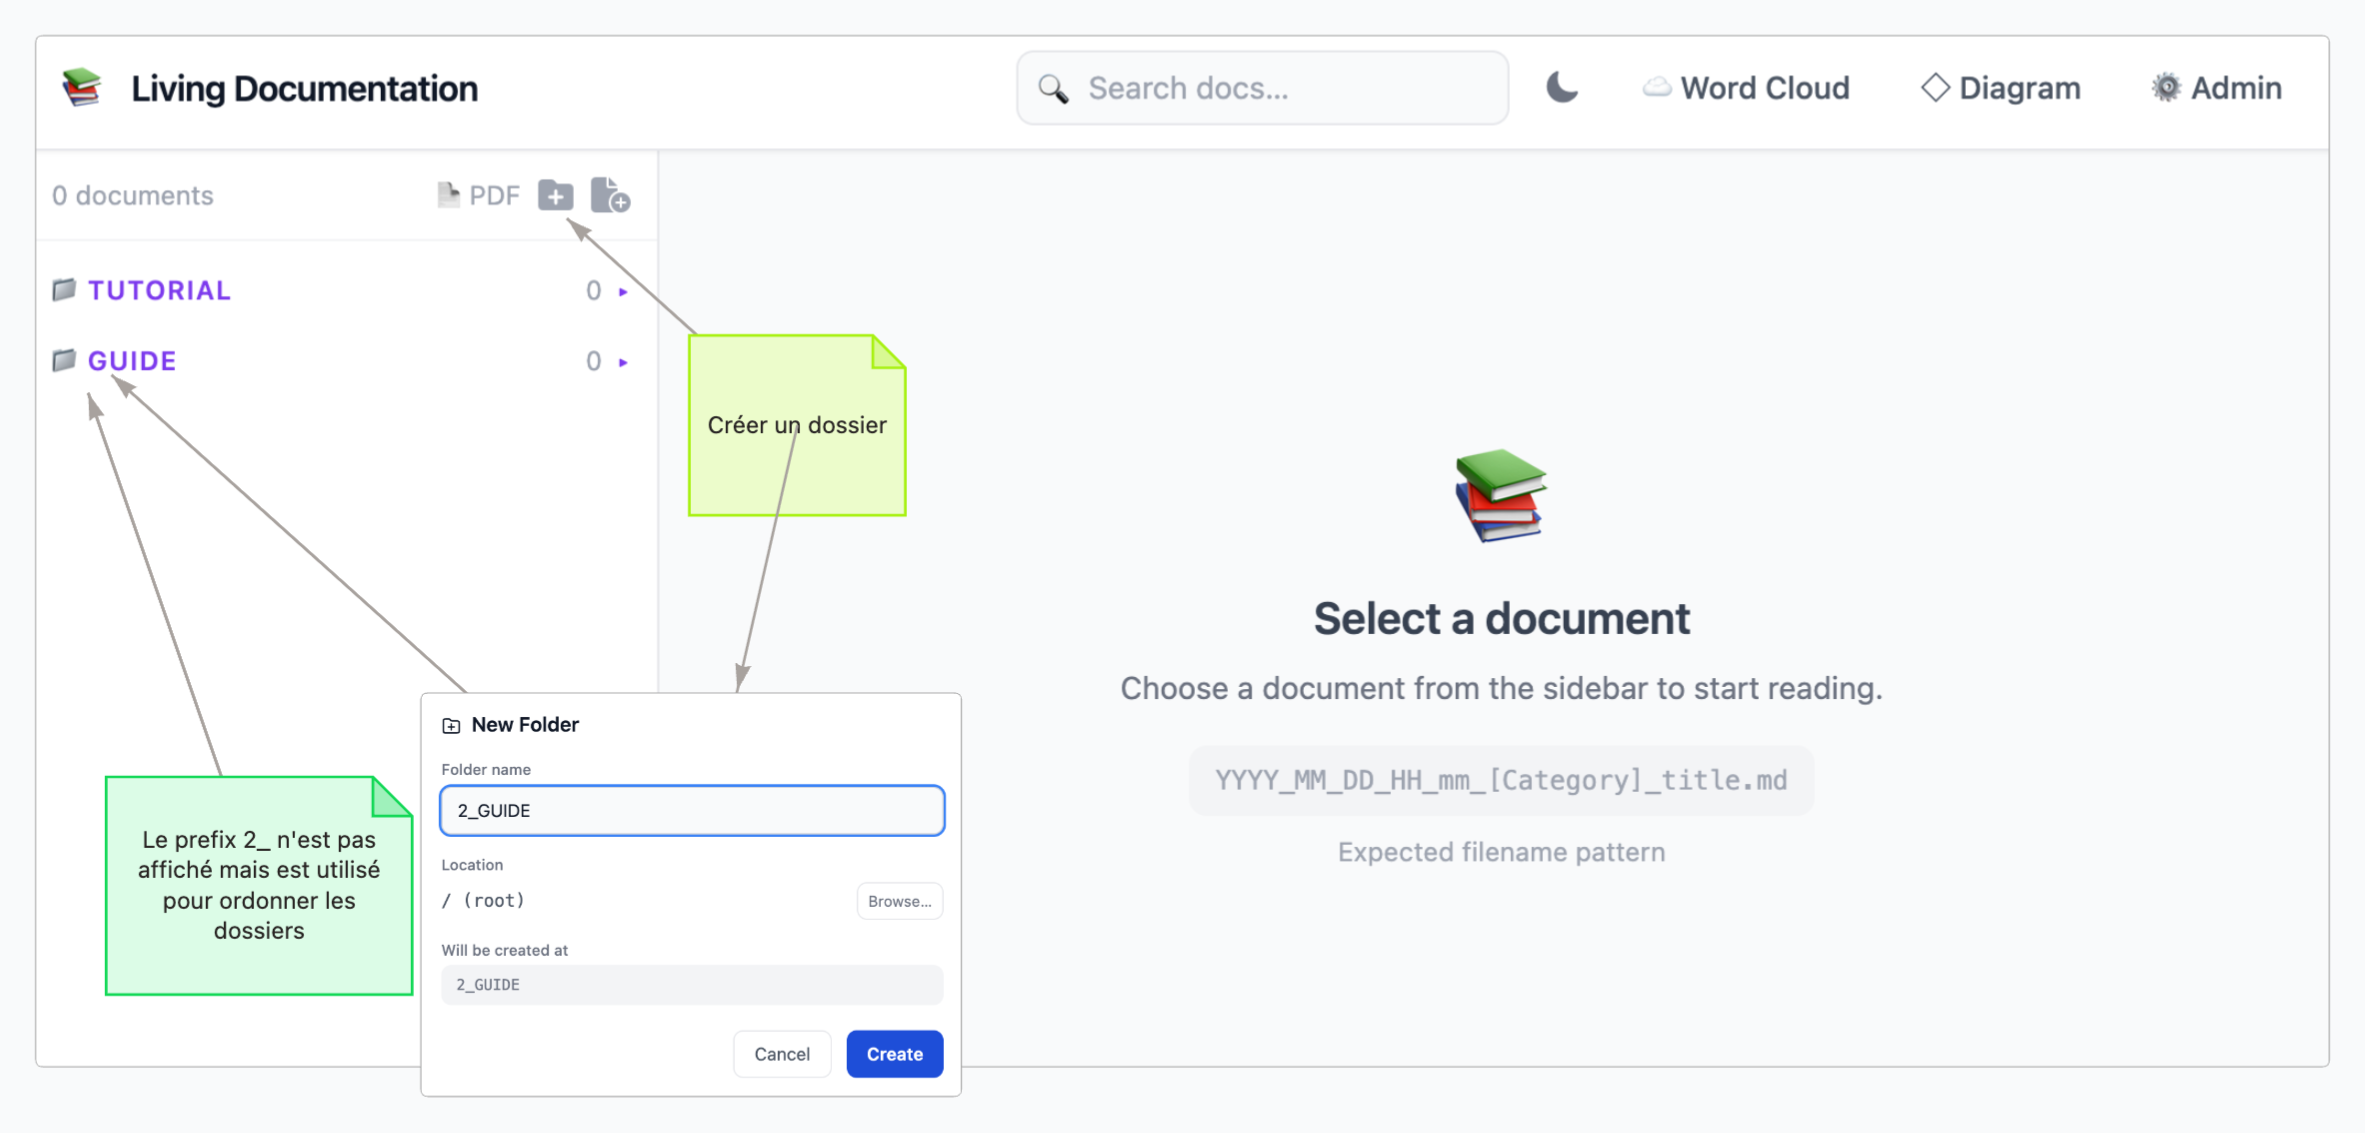
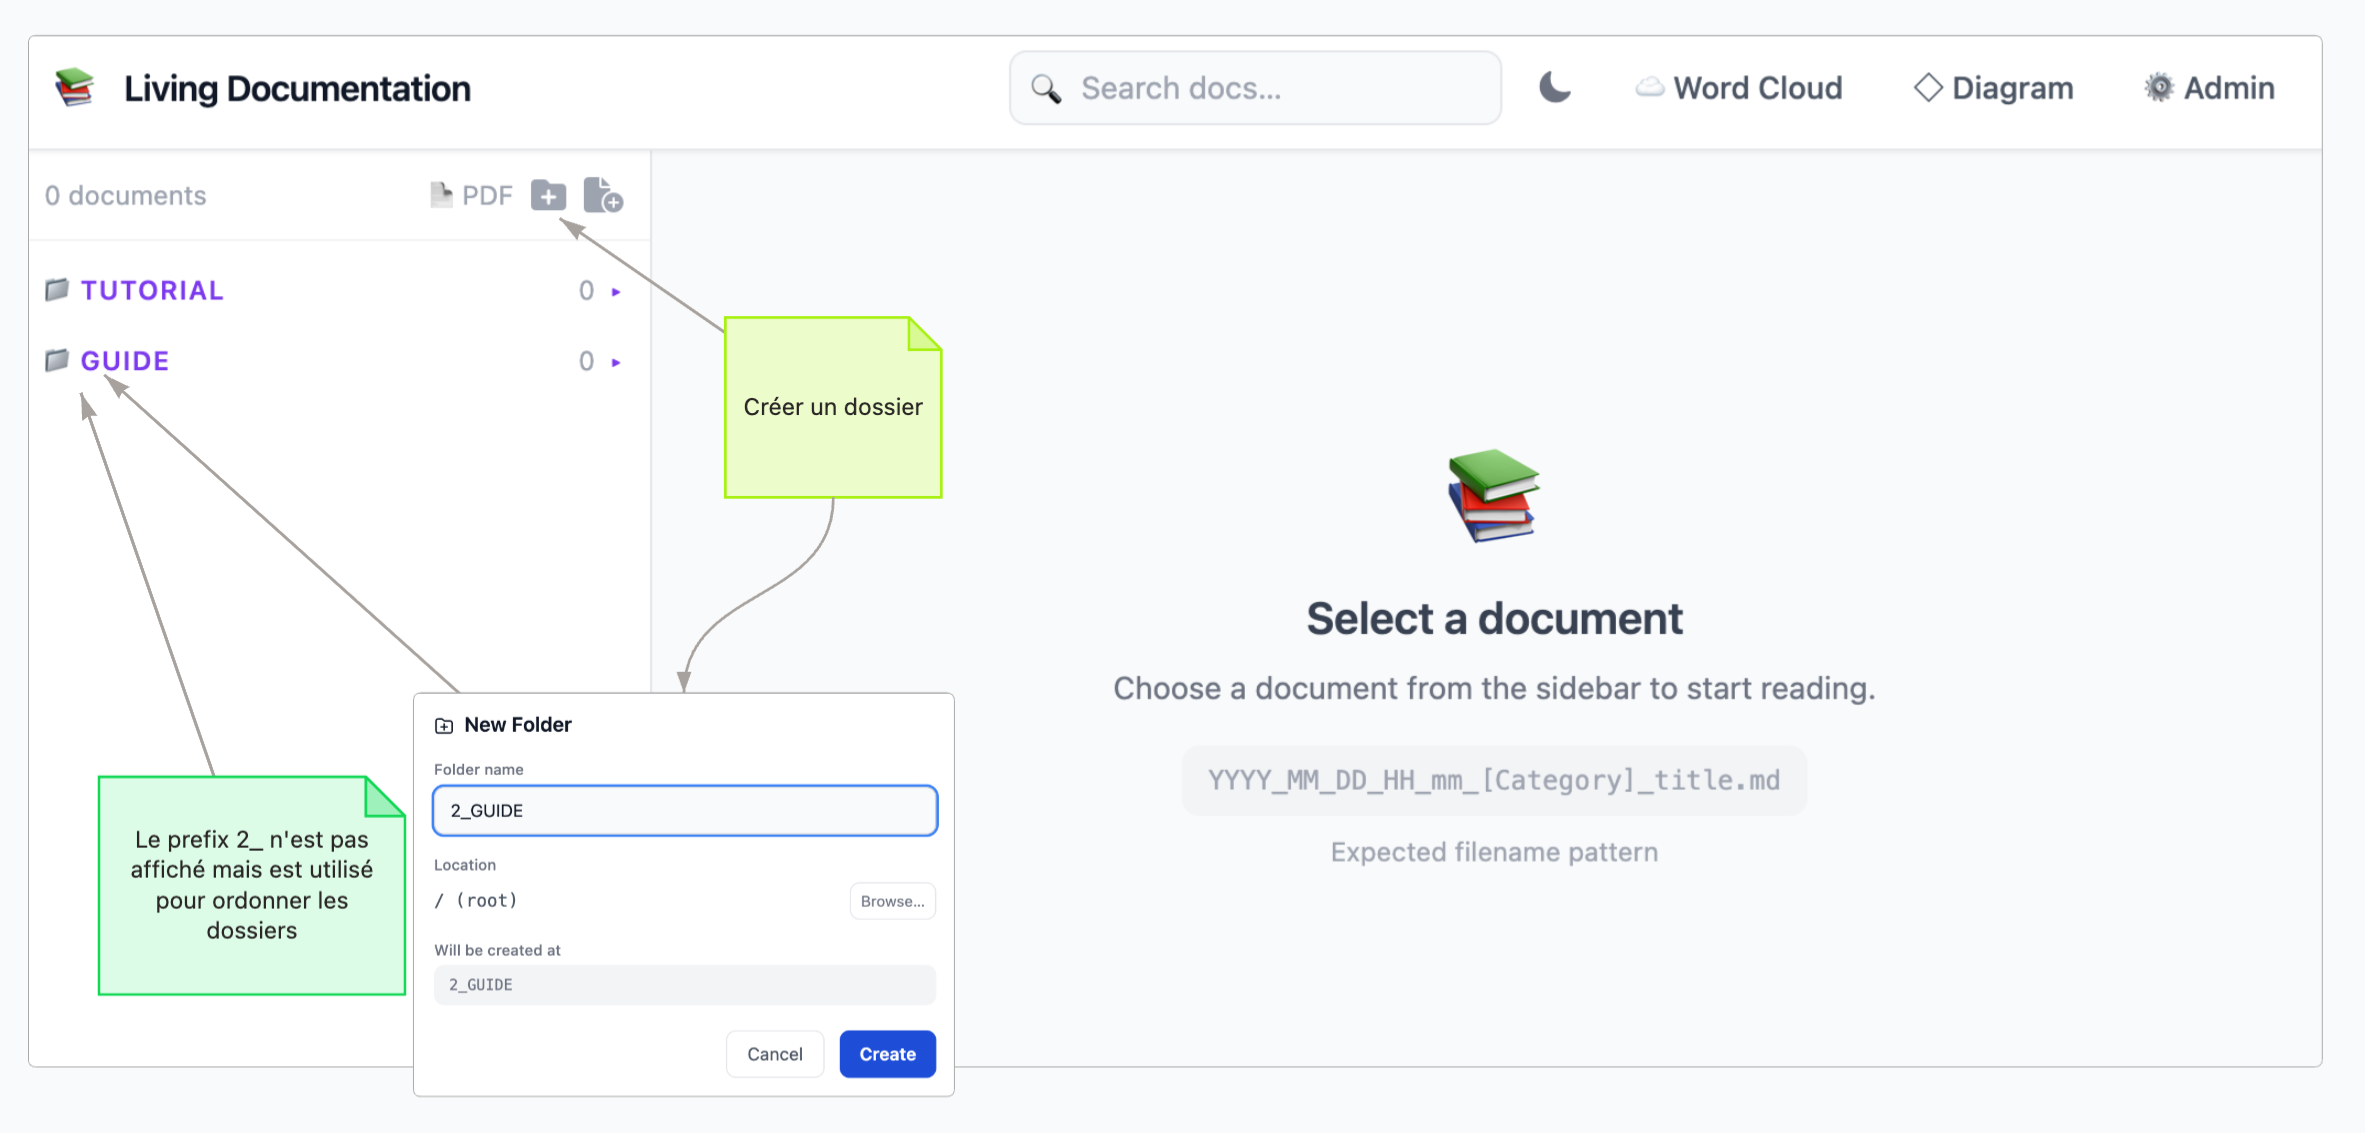
fix(Docs and diagrams):

diff --git a/documentation/AI/MCP/003-prompt-erd.md b/documentation/AI/MCP/003-prompt-erd.md
@@ -1,0 +1,96 @@
+[user]
+## Before anything else — mine the existing documentation
+
+Living Documentation is a tool where knowledge lives primarily in Markdown documents (ADRs, guides, decisions).
+**Do not ask the user questions you can answer yourself by reading the docs.**
+
+1. Call `list_documents` to get the full document list.
+2. Read documents that look architecturally significant regardless of their folder name — look for ADR-style frontmatter (lines starting with `**status:**`, `**description:**`, `**tags:**`), README files, and any document whose title or category suggests architecture, integration, or domain knowledge.
+3. **Ignore any document whose frontmatter contains `status: SuperSeeded`** — it is deprecated and must not be used as a source of truth.
+4. Read the frontmatter (`description` and `tags` fields) of each relevant document with `read_document` to find answers to the diagram-specific questions below.
+5. Only ask the user for information that cannot be found in any active (non-superseded) document.
+6. Every architectural node or relation should include `evidence` entries that cite the Markdown documents and sections that justify it. Evidence must come from documents, not from source code. If the required document does not exist, create it first.
+
+## Node semantics and label format — mandatory
+
+Prefer structured node semantics when calling `create_diagram`: pass `kind`
+(`person`, `software_system`, `external_system`, `container`, `component`,
+`database`, `object_storage`, `queue`, `device`, `api`, `cloud_service`,
+`browser_app`, `mobile_app`, `backend_service`, `job`, `unknown`) plus optional
+`description`. The MCP will build the Simon Brown C4 label and choose the
+default visual shape/color. Use `renderAs` only when the default visual shape
+should be overridden.
+
+If you do not use `kind`, every node label must follow the C4 convention using \n for line breaks:
+
+```
+Name\n[Type]\nShort description of role or responsibility
+```
+
+Examples:
+- `"DriveBox\n[Software System]\nManages ad campaigns\ndisplayed on taxi tablets"`
+- `"Advertiser\n[Person]\nUploads media and\npays for campaigns"`
+- `"Stripe\n[External System]\nCard payment and\npre-authorization"`
+
+Types to use include: `[Person]`, `[Software System]`, `[External System]`, `[Container]`, `[Component]`, `[Database]`, `[Device]`
+Keep descriptions short — 1 to 2 lines maximum.
+
+## C4 progression — mandatory ordering
+
+C4 diagrams must be created in strict order:
+
+1. **Context first** — the entry point when scanning a project's docs for the first time.
+   It answers: what is the system, who uses it, what external systems does it integrate with?
+2. **Container after** — a drill-down created only when a Context diagram already exists
+   **and** the reader explicitly asks to go deeper into a specific system.
+3. **Component after that** — same rule, only after a Container exists.
+
+**When reading docs for the first time, always create the Context diagram.**
+Never jump to Container or Component as the first diagram for a system.
+
+## Linked diagrams — C4 drill-down
+
+Any node can link to an **already-existing** diagram for navigation (e.g. Context → Container → Component).
+
+**Workflow:**
+1. Call `list_diagrams`.
+2. If a relevant child diagram already exists, add `linkedDiagramId: "<id>"` on the matching node.
+3. If no child diagram exists, leave `linkedDiagramId` unset.
+
+**RULE — never create child diagrams automatically.**
+Container and Component diagrams are only created on explicit user request for a specific scope.
+Do not create them as a side effect of creating a Context diagram.
+
+Clicking a linked node in the editor navigates directly to the child diagram.
+
+---
+
+You are about to create an **Entity-Relationship Diagram**.
+
+## Step 1 — Answer these questions first (ask the user only if not found in docs)
+
+1. **Domain** — What domain or bounded context does this ERD cover?
+2. **Entities** — What are the main entities (tables, aggregates)?
+3. **Relationships** — What are the relationships between them and their cardinalities (1:1, 1:N, N:M)?
+4. **Key attributes** — Are there important attributes worth labeling on the edges?
+
+## Step 2 — Build the diagram
+
+### Layout rules (grid = 40 units)
+- Each entity is a box. Place them so related entities are close together.
+- Suggested starting positions for up to 6 entities:
+    - top-left:    x: -320, y: -200
+    - top-center:  x:    0, y: -200
+    - top-right:   x:  320, y: -200
+    - bottom-left: x: -320, y:  200
+    - bottom-center: x:  0, y:  200
+    - bottom-right: x:  320, y:  200
+- All positions must be multiples of 40.
+- Color: c-blue for main entities, c-green for junction/pivot tables, c-slate for lookup/reference tables.
+
+### Edge rules
+- Label every edge with the cardinality and nature of the relationship:
+  "1:N", "N:M", "has many", "belongs to", "references", etc.
+- Edges are undirected by convention in ERDs — leave `label` descriptive.
+
+## Step 3 — Call `create_diagram` with `diagramType: "erd"`.